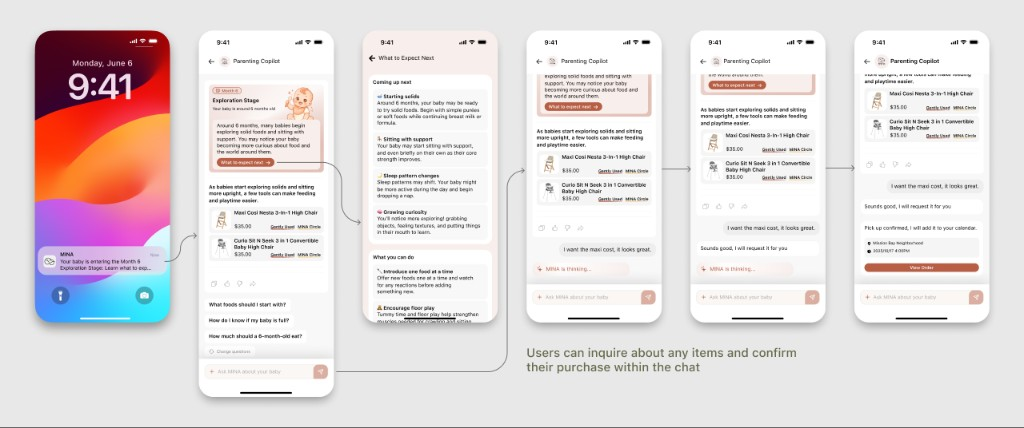
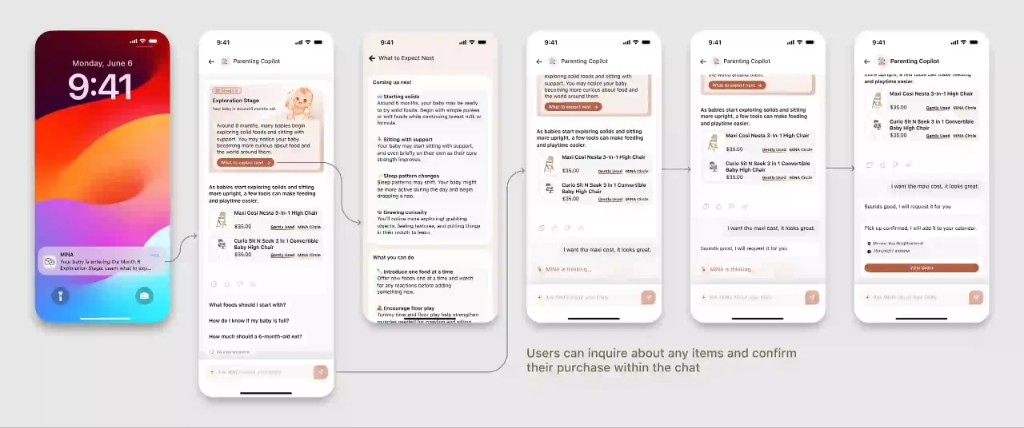
MINA: Track A/B flow PNGs; Copilot image unoptimized; capsule hover darkens
Made-with: Cursor

diff --git a/app/components/SplitCapsuleLink.tsx b/app/components/SplitCapsuleLink.tsx
@@ -9,37 +9,37 @@ const variantClass: Record<
 > = {
   emerald: {
     group: "focus-within:outline focus-within:outline-2 focus-within:outline-offset-2 focus-within:outline-emerald-200",
-    left: "border border-emerald-300/90 bg-emerald-400 text-zinc-950 shadow-[inset_0_1px_0_0_rgba(255,255,255,0.2)] group-hover:border-emerald-200/90 group-hover:bg-emerald-300",
+    left: "border border-emerald-300/90 bg-emerald-400 text-zinc-950 shadow-[inset_0_1px_0_0_rgba(255,255,255,0.2)] group-hover:border-emerald-600 group-hover:bg-emerald-600",
     right:
-      "border border-emerald-300/90 bg-emerald-400 text-zinc-950 shadow-[inset_0_1px_0_0_rgba(255,255,255,0.2)] group-hover:border-emerald-200/90 group-hover:bg-emerald-300",
+      "border border-emerald-300/90 bg-emerald-400 text-zinc-950 shadow-[inset_0_1px_0_0_rgba(255,255,255,0.2)] group-hover:border-emerald-600 group-hover:bg-emerald-600",
   },
   emeraldSoft: {
     group:
       "focus-within:outline focus-within:outline-2 focus-within:outline-offset-2 focus-within:outline-emerald-400/60",
-    left: "border border-emerald-500/80 bg-emerald-500/90 text-zinc-950 group-hover:border-emerald-400 group-hover:bg-emerald-400",
+    left: "border border-emerald-500/80 bg-emerald-500/90 text-zinc-950 group-hover:border-emerald-700 group-hover:bg-emerald-700",
     right:
-      "border border-emerald-500/80 bg-emerald-500/90 text-zinc-950 group-hover:border-emerald-400 group-hover:bg-emerald-400",
+      "border border-emerald-500/80 bg-emerald-500/90 text-zinc-950 group-hover:border-emerald-700 group-hover:bg-emerald-700",
   },
   ghostEmerald: {
     group:
       "focus-within:outline focus-within:outline-2 focus-within:outline-offset-2 focus-within:outline-emerald-400/50",
-    left: "border border-emerald-500/45 bg-emerald-500/15 text-emerald-100 group-hover:border-emerald-400/70 group-hover:bg-emerald-500/25 group-hover:text-white",
+    left: "border border-emerald-500/45 bg-emerald-500/15 text-emerald-100 group-hover:border-emerald-700/75 group-hover:bg-emerald-950/45 group-hover:text-emerald-50",
     right:
-      "border border-emerald-500/45 bg-emerald-500/15 text-emerald-100 group-hover:border-emerald-400/70 group-hover:bg-emerald-500/25 group-hover:text-white",
+      "border border-emerald-500/45 bg-emerald-500/15 text-emerald-100 group-hover:border-emerald-700/75 group-hover:bg-emerald-950/45 group-hover:text-emerald-50",
   },
   outline: {
     group:
       "focus-within:outline focus-within:outline-2 focus-within:outline-offset-2 focus-within:outline-zinc-400",
-    left: "border border-zinc-600 bg-transparent text-zinc-200 group-hover:border-zinc-400 group-hover:text-zinc-50",
+    left: "border border-zinc-600 bg-transparent text-zinc-200 group-hover:border-zinc-500 group-hover:bg-zinc-800/90 group-hover:text-zinc-100",
     right:
-      "border border-zinc-600 bg-transparent text-zinc-200 group-hover:border-zinc-400 group-hover:text-zinc-50",
+      "border border-zinc-600 bg-transparent text-zinc-200 group-hover:border-zinc-500 group-hover:bg-zinc-800/90 group-hover:text-zinc-100",
   },
   mina: {
     group:
       "focus-within:outline focus-within:outline-2 focus-within:outline-offset-2 focus-within:outline-[#E8A995]",
-    left: "border border-[#9a4d38] bg-[#B75E45] text-white shadow-[0_12px_40px_-12px_rgba(183,94,69,0.45)] group-hover:border-[#c46a52] group-hover:bg-[#c46a52]",
+    left: "border border-[#9a4d38] bg-[#B75E45] text-white shadow-[0_12px_40px_-12px_rgba(183,94,69,0.45)] group-hover:border-[#6b3426] group-hover:bg-[#8f432f]",
     right:
-      "border border-[#9a4d38] bg-[#B75E45] text-white shadow-[0_12px_40px_-12px_rgba(183,94,69,0.45)] group-hover:border-[#c46a52] group-hover:bg-[#c46a52]",
+      "border border-[#9a4d38] bg-[#B75E45] text-white shadow-[0_12px_40px_-12px_rgba(183,94,69,0.45)] group-hover:border-[#6b3426] group-hover:bg-[#8f432f]",
   },
 };
 

diff --git a/app/case-studies/ai-marketplace/page.tsx b/app/case-studies/ai-marketplace/page.tsx
@@ -28,7 +28,7 @@ const MINA_OPPORTUNITY_H = 907;
 const MINA_MOCKUP_ISO = "/case-studies/mina/mockup-isometric-02.png";
 const MINA_MOCKUP_SOFA = "/case-studies/mina/mockup-sofa-04.png";
 const MINA_COPILOT_FLOW = "/case-studies/mina/parenting-copilot-flow.png";
-/** Intrinsic px on disk. Match narrative column width; use ~2048px-wide export + updated W/H to reduce blur on hi-DPI. */
+/** Track B Copilot flow art. `unoptimized` on `<Image>` = PNG served as-is. W/H must match file pixels. */
 const MINA_COPILOT_FLOW_W = 1024;
 const MINA_COPILOT_FLOW_H = 428;
 
@@ -570,7 +570,7 @@ export default function AiMarketplaceCaseStudy() {
                     width={MINA_COPILOT_FLOW_W}
                     height={MINA_COPILOT_FLOW_H}
                     className="h-auto w-full object-contain"
-                    quality={95}
+                    unoptimized
                     sizes="(max-width: 640px) 100vw, min(896px, calc(100vw - 3rem))"
                   />
                 </ImageLightbox>